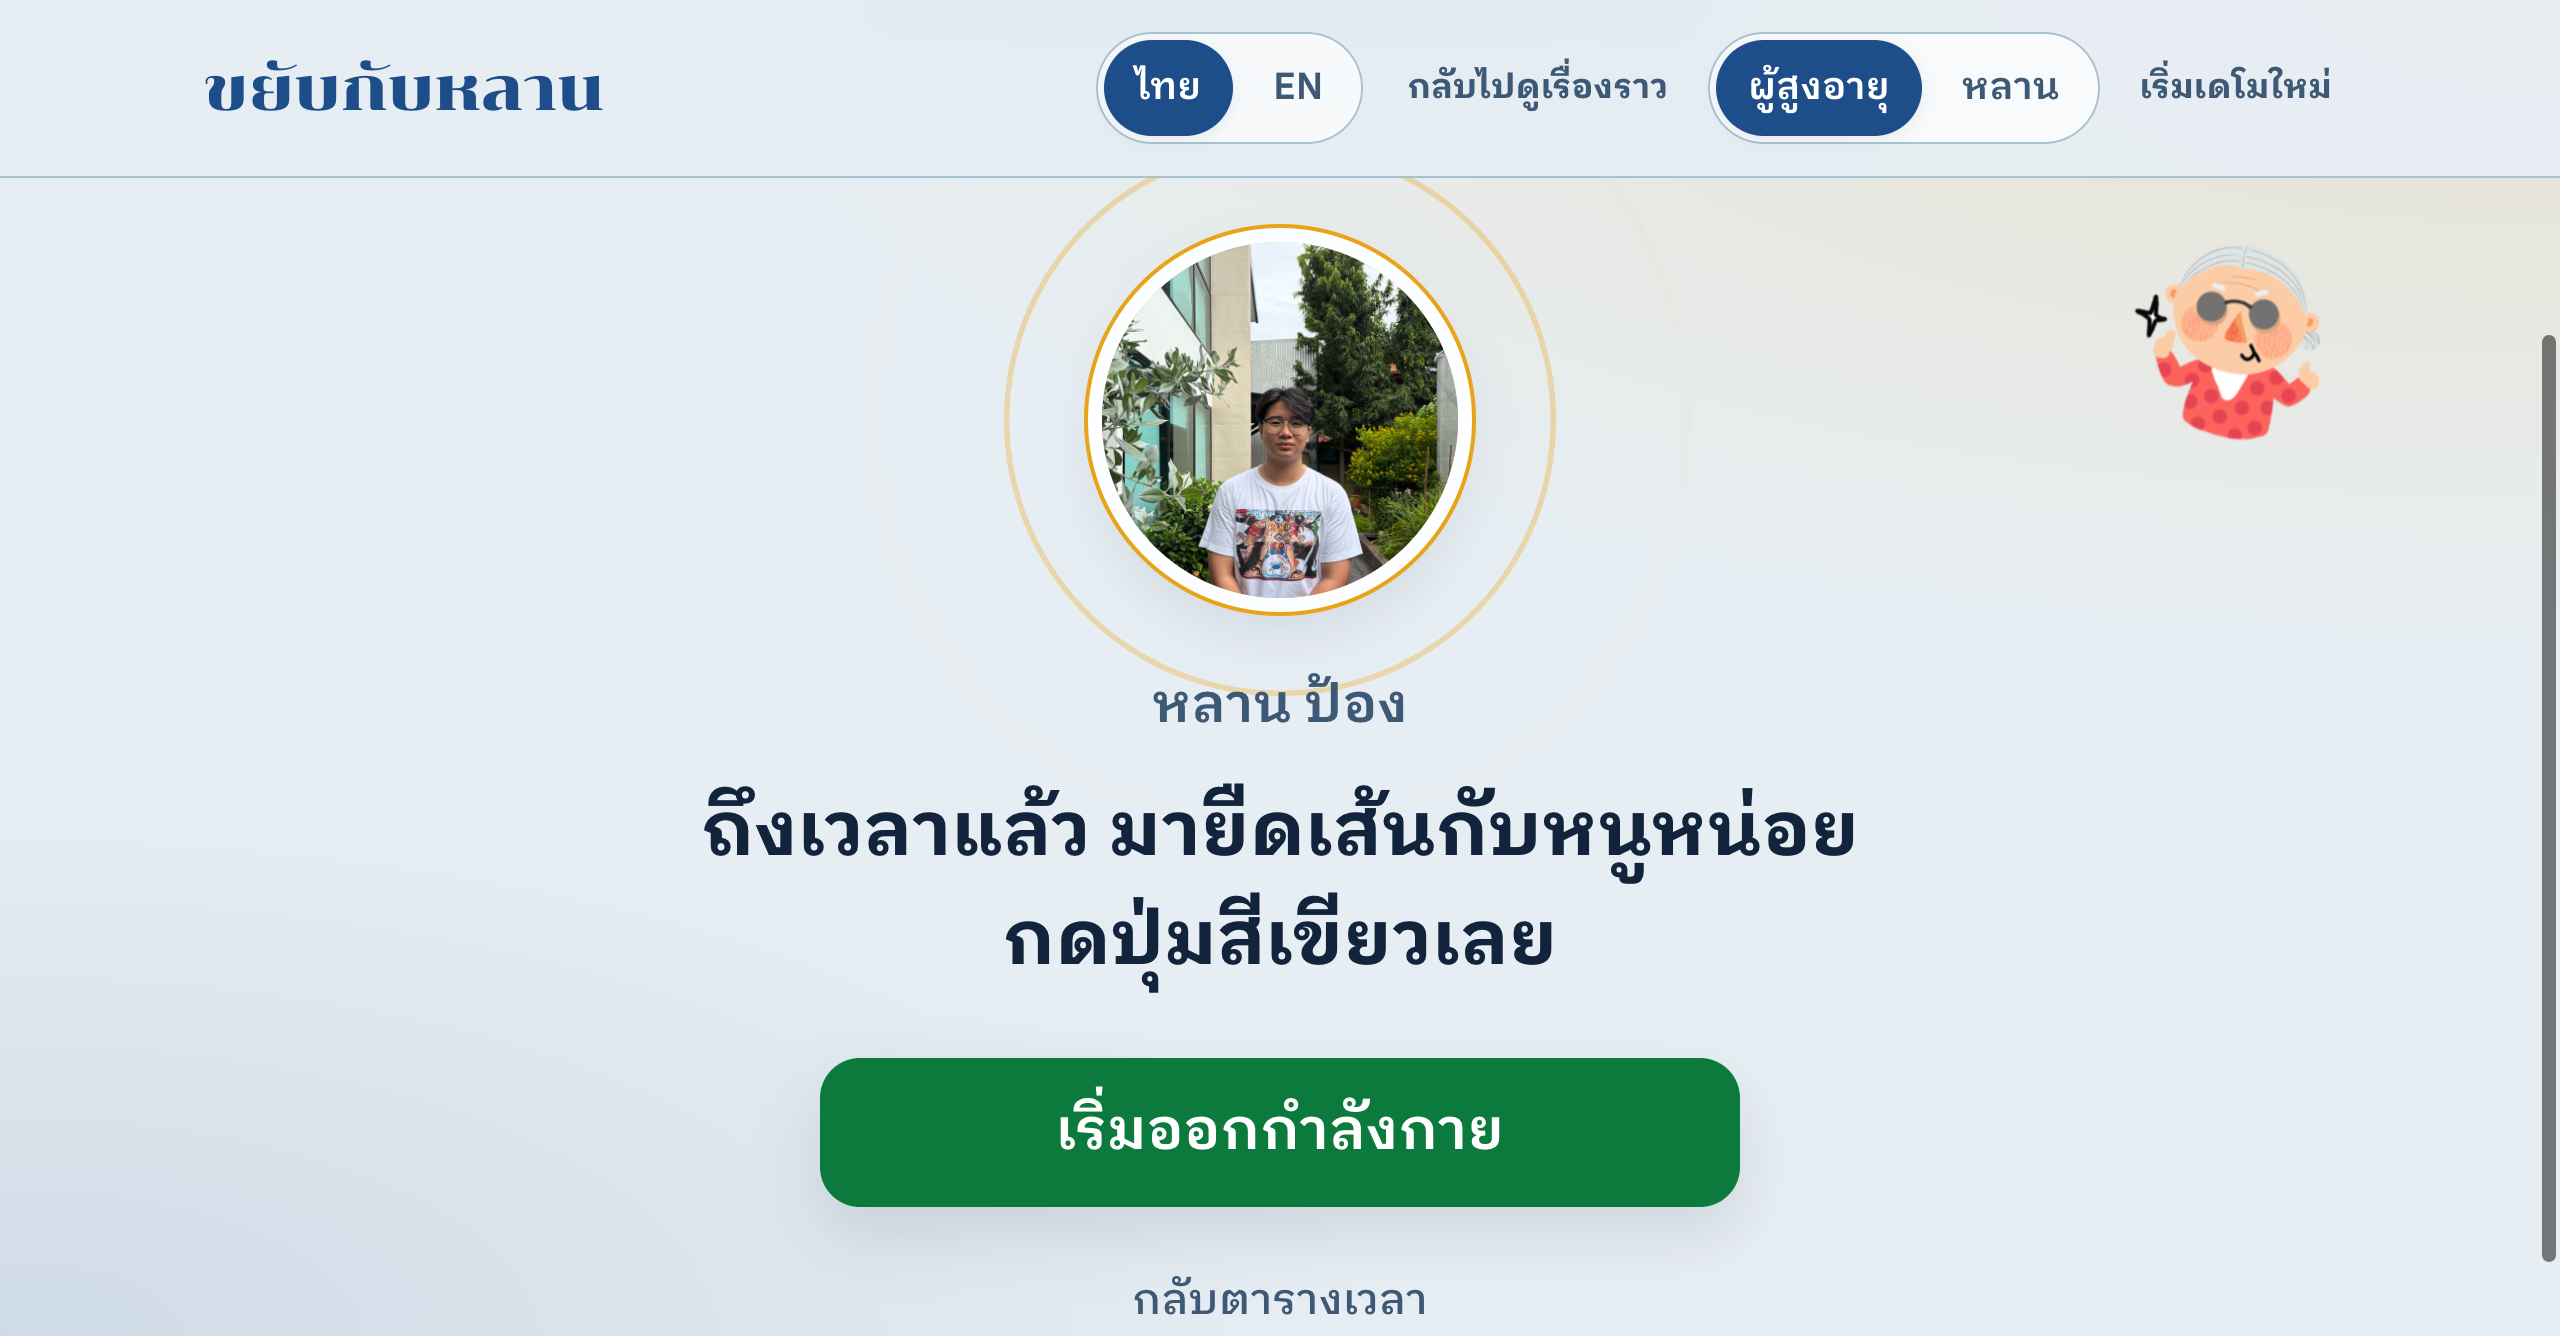
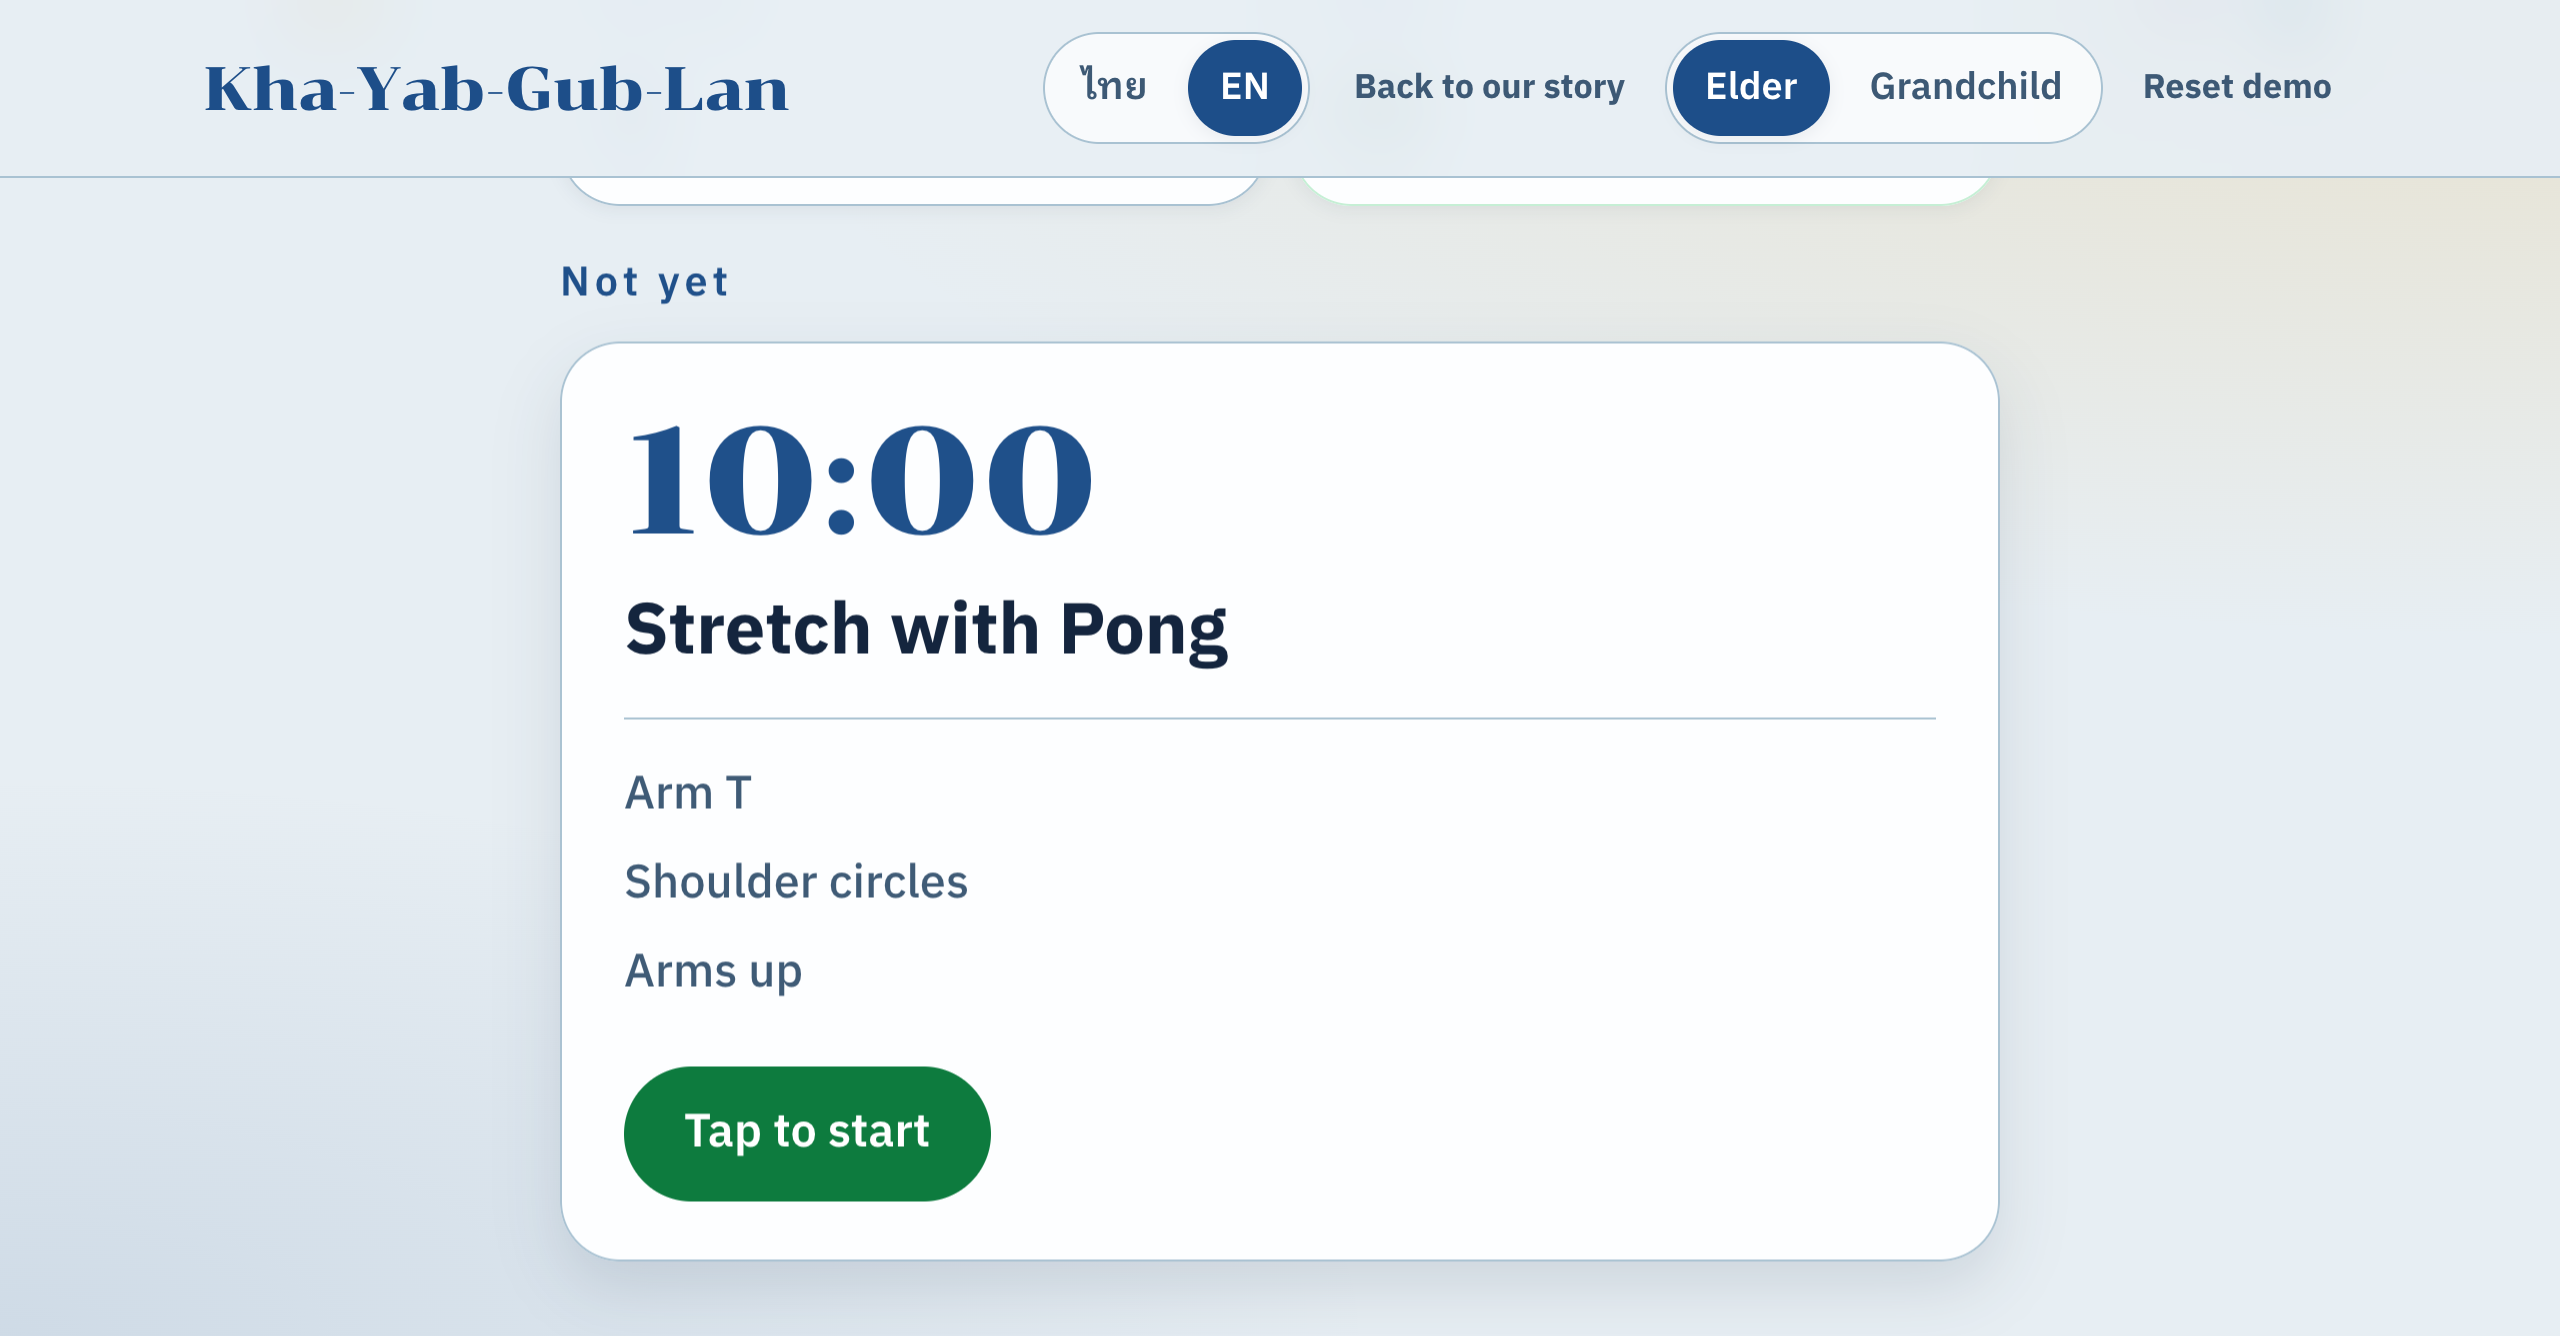
docs: use English screenshots in README

diff --git a/README.md b/README.md
@@ -26,7 +26,7 @@ Many elders don't want to follow a health app or a trainer they don't know. But 
 | Feature | Details |
 | --- | --- |
 | 🔔 **A call from the grandchild** | When it's time, the app plays a voice clip the grandchild recorded instead of a beep. The screen shows only the grandchild's face and one green button. |
-| 🪑 **Seated exercises** | Every move can be done in a chair: T-arms, shoulder circles, alternating punches, arms up, and hands on head. |
+| 🪑 **Seated exercises** | Every move can be done in a chair: Arm T, shoulder circles, alternate punch, arms up, and hands on head. |
 | 📷 **Camera move checking** | MediaPipe Pose checks the elder's moves through the front camera in real time and shows large, easy-to-read feedback. |
 | 🎉 **Praise at the end** | When the session ends, the grandchild gives praise by voice and on-screen text, then the app returns to the schedule. |
 | 🌏 **Two languages** | Switch between Thai and English from the top bar. |
@@ -42,9 +42,9 @@ The grandchild picks the time, chooses who will do the asking, and builds a set 
 ![Grandchild setup screen](docs/screenshots/demo-grandchild.png)
 
 ### 2. The elder starts moving
-At the set time, the elder sees the grandchild's face, hears their voice, and presses one button: **"Start exercise"**.
+Today's session waits on the elder's screen. At the set time, the elder sees the grandchild's face, hears their voice, and presses one button: **"Start exercise"**.
 
-![Call from the grandchild](docs/screenshots/demo-elder.png)
+![Elder's schedule card for today](docs/screenshots/demo-elder.png)
 
 ### 3. Feedback
 The camera watches the elder's moves. A correct move earns praise in the grandchild's voice, and a move that isn't quite there gets a gentle nudge. After the last move, a praise screen appears.
